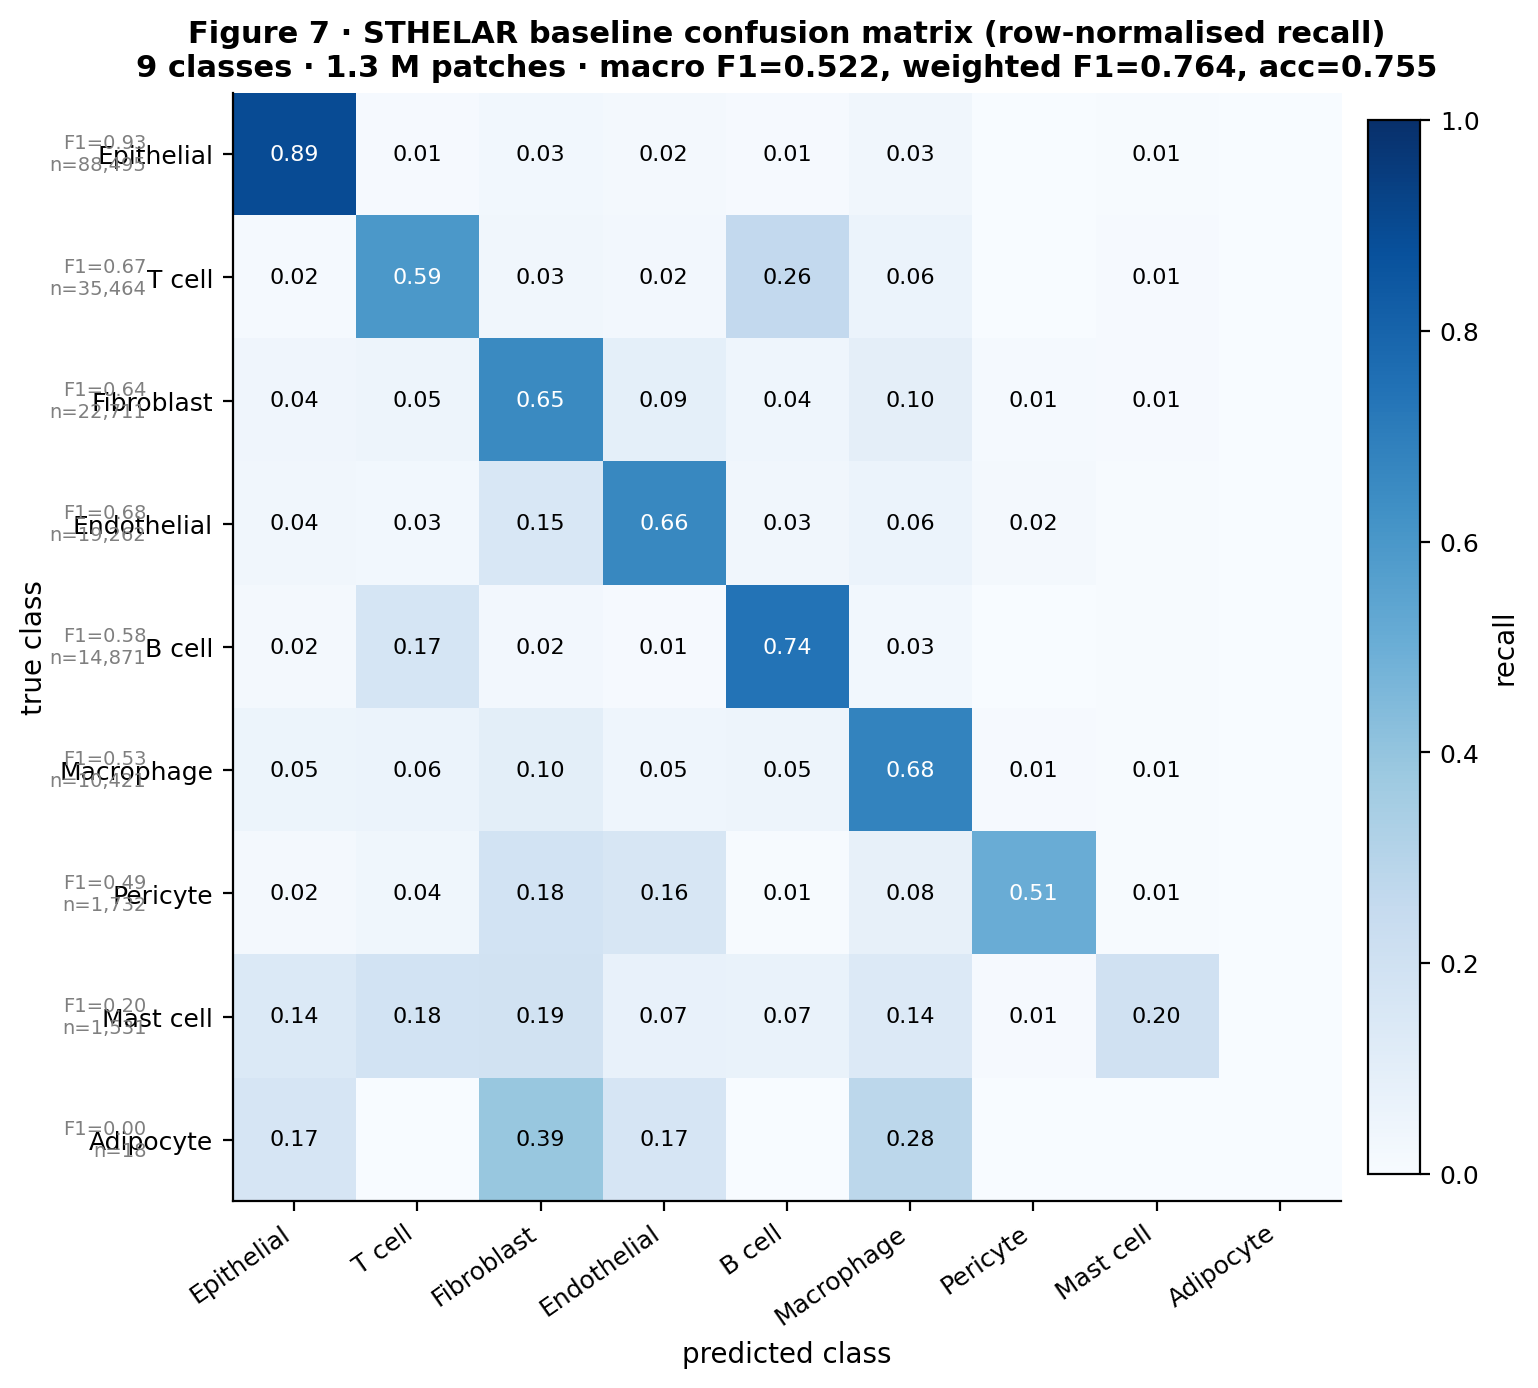
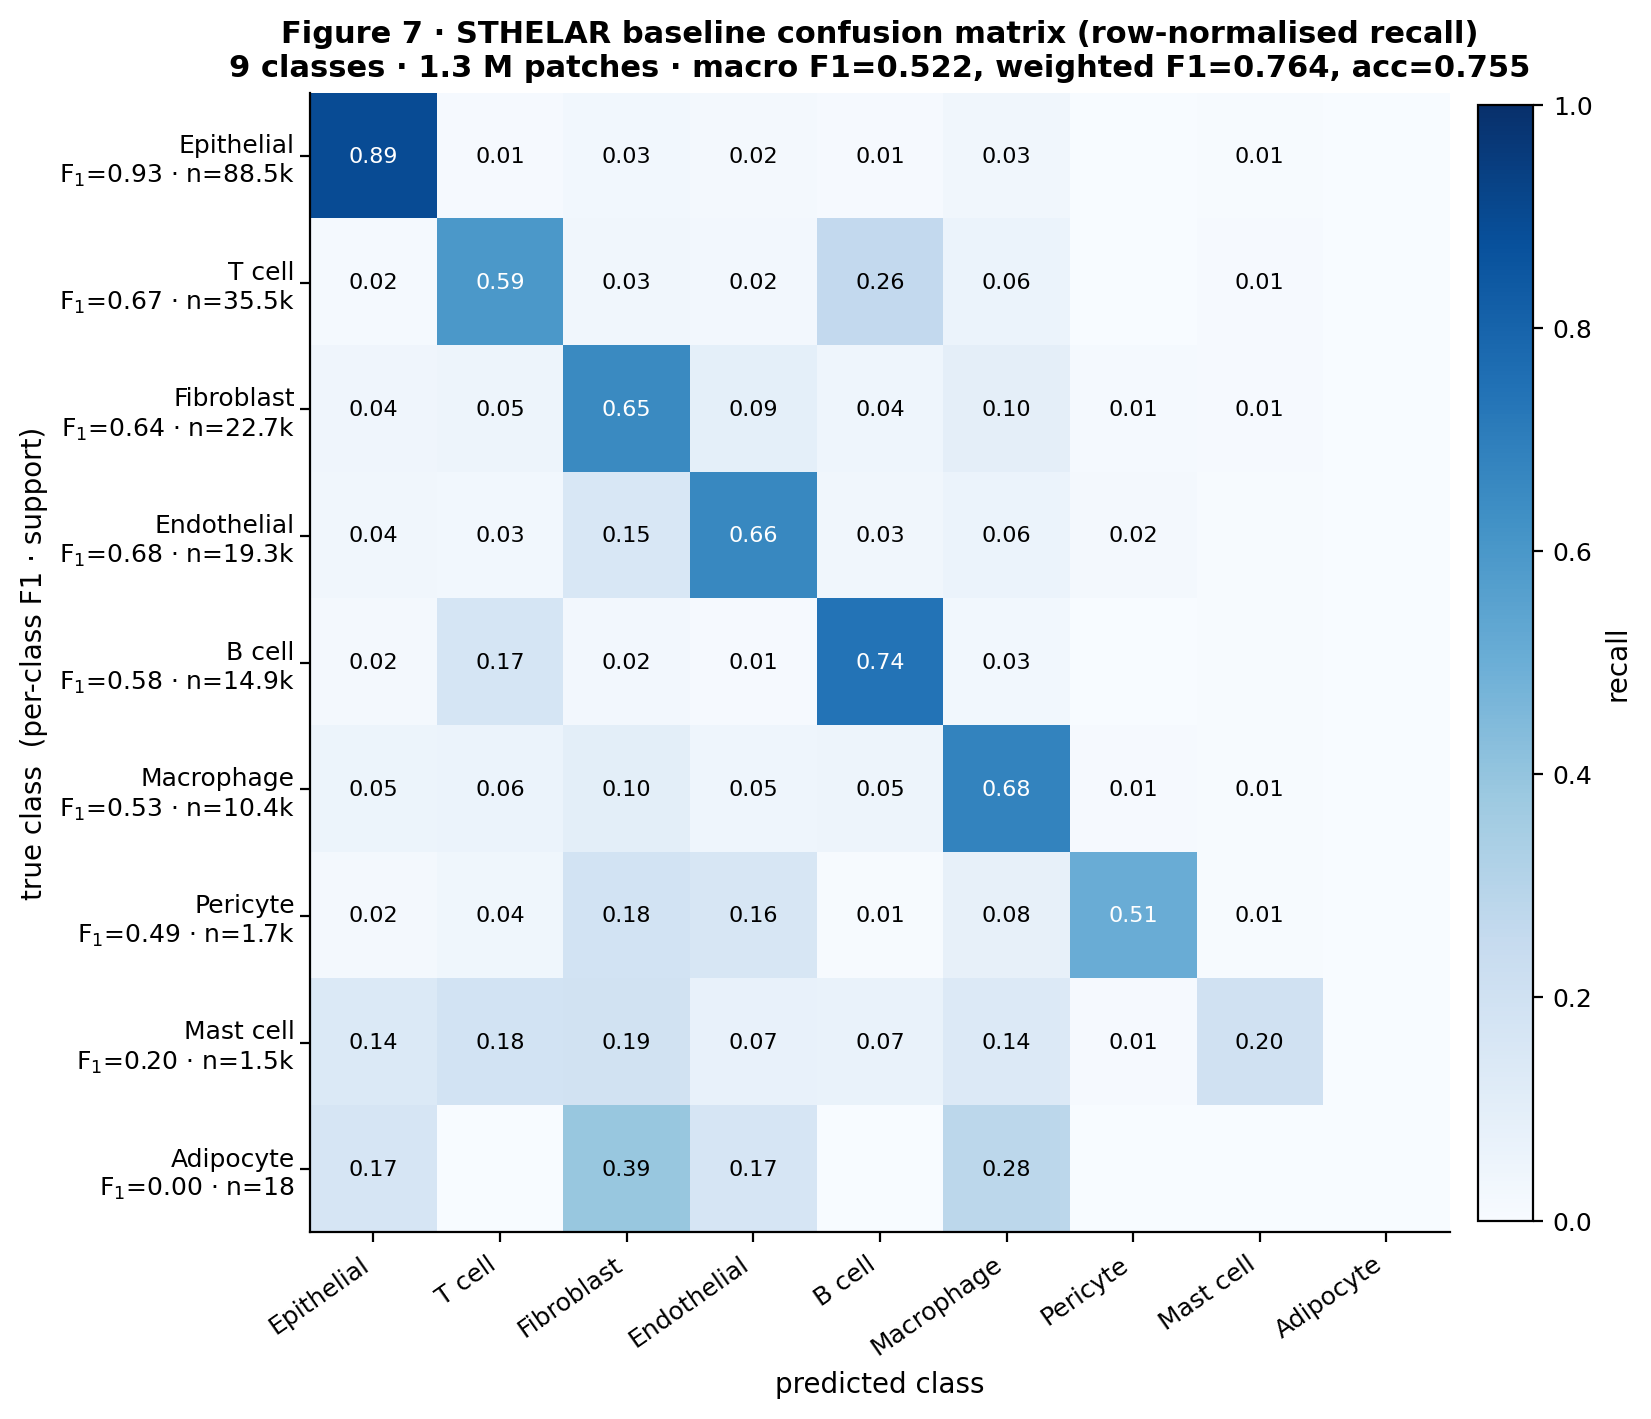
fix(fig7): collapse F1/n annotation into y-tick label
User flagged that the per-class F1 / n=… annotation in figure 7 (STHELAR
confusion matrix) overlapped with the y-axis tick labels — separate
ax.text() at fixed x=-1.2 collided with longer tick labels like
"Endothelial" / "Macrophage" because matplotlib places the tick labels
based on text length, not at a fixed x.

Fix: fold F1 / n directly into the tick label string. Matplotlib then
owns the spacing math and there is no overlap regardless of label
length.

  ytick_labels = [
      f"{short[c]}\n$F_1$={pc[c]['f1']:.2f} · n={fmt_n(pc[c]['support'])}"
      for c in classes_ord
  ]

Also widened the figure 0.5 in to give the longer tick labels breathing
room and updated the y-axis label to "true class (per-class F1 ·
support)" so the tick-label format is self-documenting. Number support
formatted with k suffix for readability (88,495 → 88.5k).

scripts/sync_manuscript_to_obsidian.sh: extended to mirror the figures
into ~/obsidian/llmbrain/DAPIDL/metrics-260429/figures/ as well, so a
single sync run keeps both Obsidian copies in step with the canonical
docs/figures/. Avoids the manual cp the user would otherwise need
whenever a figure gets regenerated.

Both Obsidian copies now have the corrected fig7. Verified byte-
identical to the canonical PNG via md5.

diff --git a/scripts/manuscript_figures.py b/scripts/manuscript_figures.py
@@ -513,12 +513,25 @@ def fig7_sthelar_confusion():
              "pericyte": "Pericyte", "mast cell": "Mast cell", "adipocyte": "Adipocyte"}
     labels = [short[c] for c in classes_ord]
 
-    fig, ax = plt.subplots(figsize=(8.5, 7.2))
+    # Compose y-tick labels with F1 / n inline so matplotlib owns the spacing
+    # (avoids overlap between separate ax.text annotations and the tick text).
+    def _fmt_n(n: int) -> str:
+        if n >= 1000:
+            return f"{n/1000:.1f}k".replace(".0k", "k")
+        return f"{n:,}"
+
+    ytick_labels = [
+        f"{short[c]}\n$\\mathrm{{F_1}}$={pc[c]['f1']:.2f} · n={_fmt_n(pc[c]['support'])}"
+        for c in classes_ord
+    ]
+
+    fig, ax = plt.subplots(figsize=(9.0, 7.4))
     im = ax.imshow(norm_ord, cmap="Blues", vmin=0, vmax=1.0)
     ax.set_xticks(range(len(labels)))
     ax.set_xticklabels(labels, rotation=35, ha="right")
     ax.set_yticks(range(len(labels)))
-    ax.set_yticklabels(labels)
+    ax.set_yticklabels(ytick_labels, fontsize=9)
+    ax.tick_params(axis="y", which="major", pad=2)
     for i in range(len(labels)):
         for j in range(len(labels)):
             v = norm_ord[i, j]
@@ -527,14 +540,8 @@ def fig7_sthelar_confusion():
             color = "white" if v > 0.5 else "black"
             ax.text(j, i, f"{v:.2f}", ha="center", va="center",
                     color=color, fontsize=8)
-    # Annotate per-class F1 on the y-axis
-    for i, c in enumerate(classes_ord):
-        f1 = pc[c]["f1"]
-        n = pc[c]["support"]
-        ax.text(-1.2, i, f"F1={f1:.2f}\nn={n:,}", ha="right", va="center", fontsize=7,
-                color=C_GREY)
     ax.set_xlabel("predicted class")
-    ax.set_ylabel("true class")
+    ax.set_ylabel("true class  (per-class F1 · support)")
     ax.set_title("Figure 7 · STHELAR baseline confusion matrix (row-normalised recall)\n9 classes · 1.3 M patches · macro F1=0.522, weighted F1=0.764, acc=0.755",
                  fontsize=11, fontweight="bold")
     fig.colorbar(im, ax=ax, fraction=0.04, pad=0.02, label="recall")